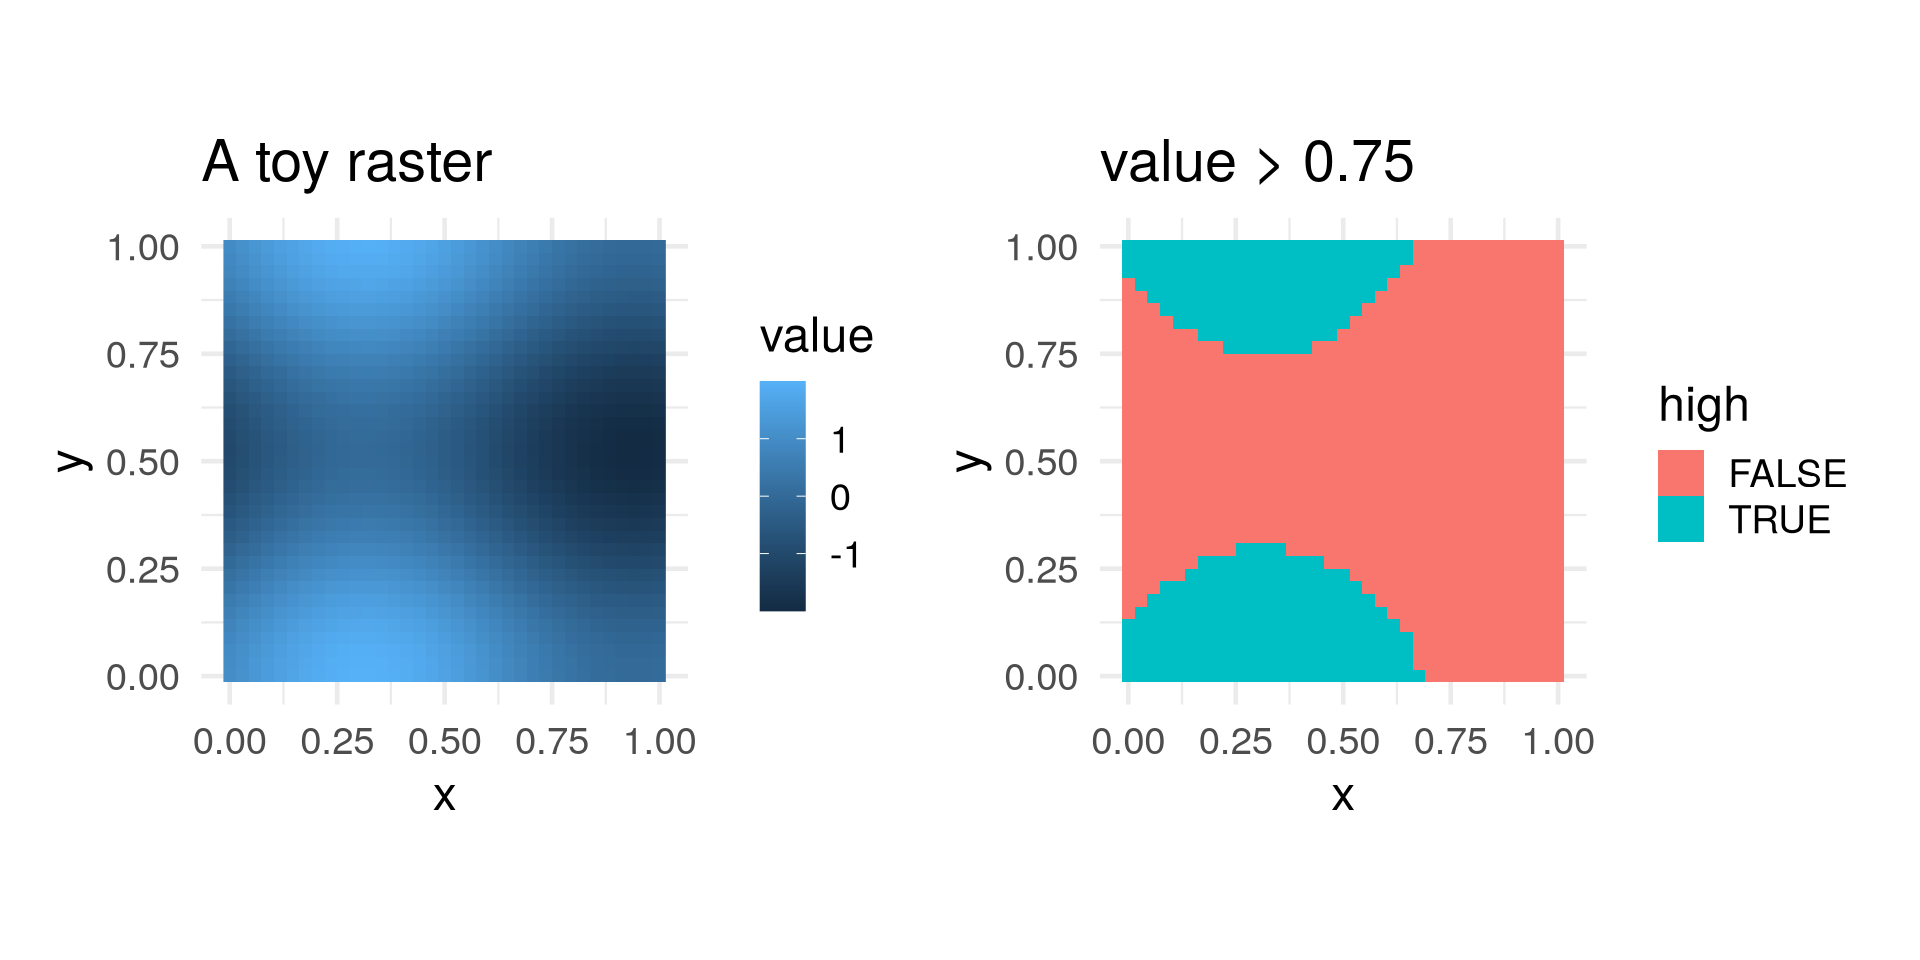
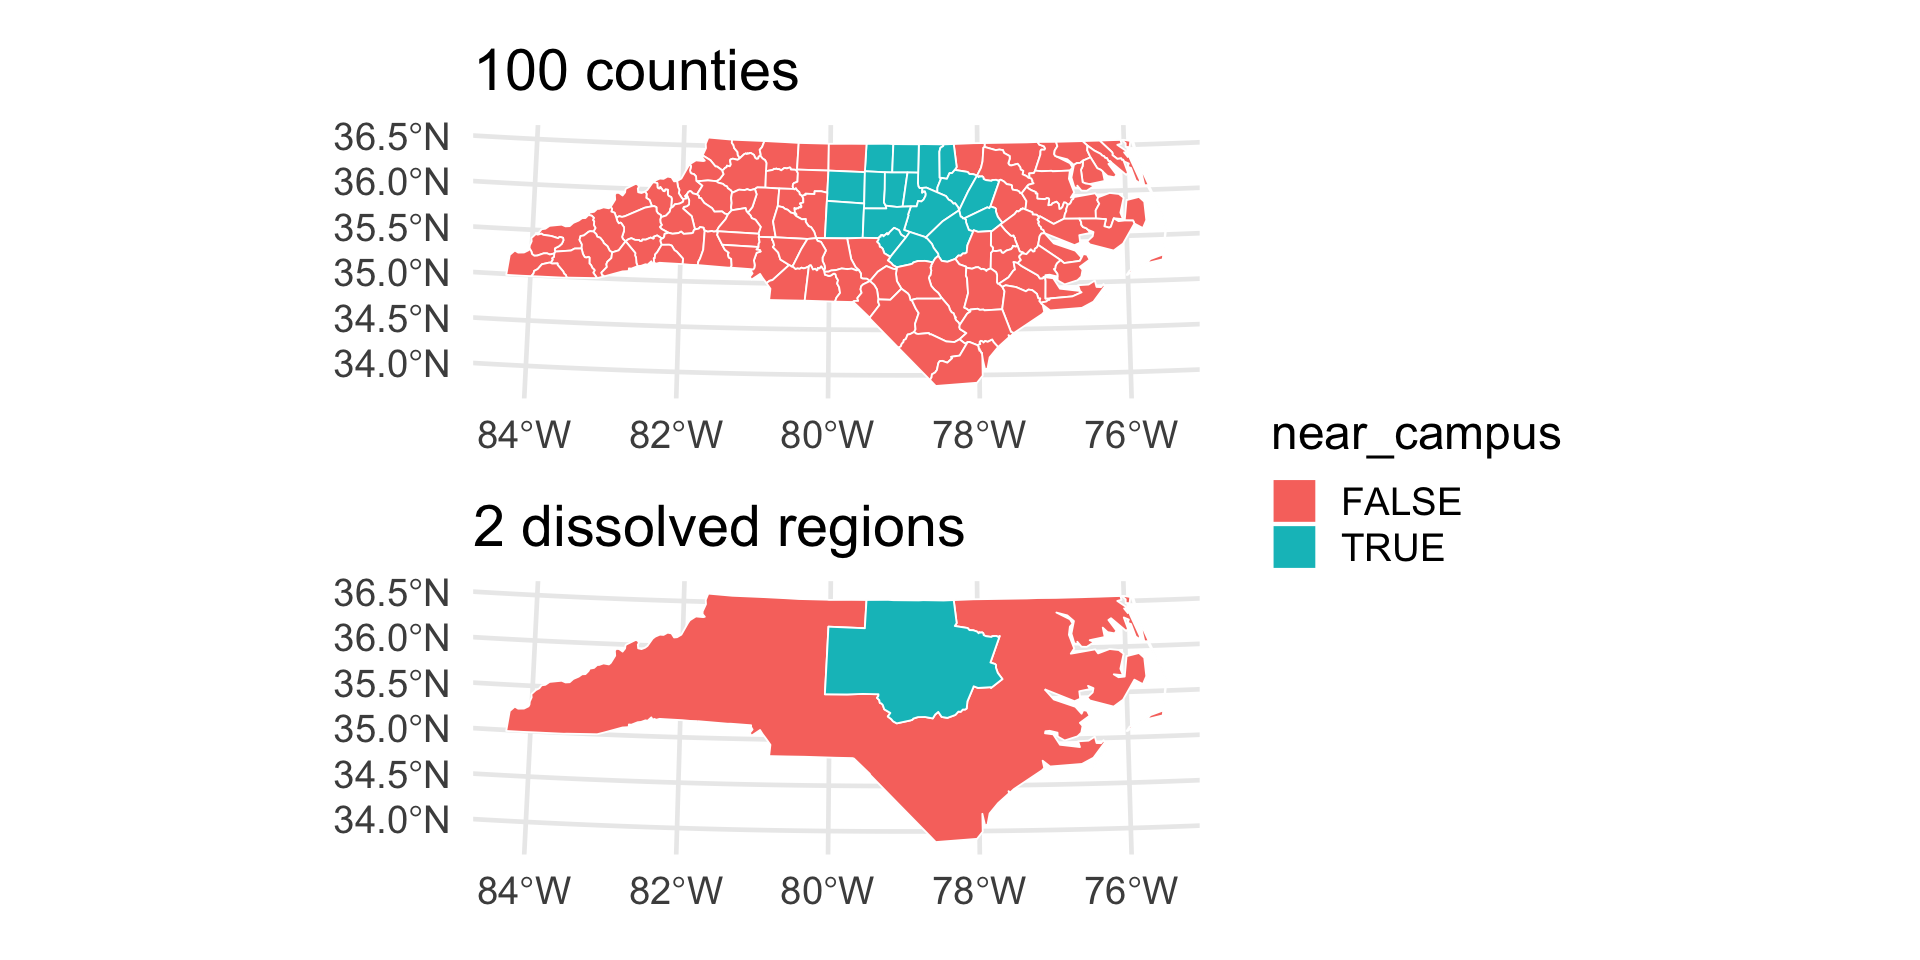
improve slides

diff --git a/docs/slides/lec-spatial-data.html b/docs/slides/lec-spatial-data.html
@@ -430,6 +430,21 @@ First 10 features:
 </section>
 <section id="mapping-an-attribute" class="slide level2">
 <h2>Mapping an attribute</h2>
+<div class="panel-tabset">
+<ul id="tabset-1" class="panel-tabset-tabby"><li><a data-tabby-default="" href="#tabset-1-1">plot</a></li><li><a href="#tabset-1-2">code</a></li></ul>
+<div class="tab-content">
+<div id="tabset-1-1">
+<div class="cell">
+<div class="cell-output-display">
+<div>
+<figure>
+<p><img data-src="lec-spatial-data_files/figure-revealjs/unnamed-chunk-4-1.png" width="960"></p>
+</figure>
+</div>
+</div>
+</div>
+</div>
+<div id="tabset-1-2">
 <div class="cell">
 <div class="sourceCode cell-code" id="cb8"><pre class="sourceCode numberSource r number-lines code-with-copy"><code class="sourceCode r"><span id="cb8-1"><a></a>nc <span class="sc">|&gt;</span></span>
 <span id="cb8-2"><a></a>  <span class="fu">mutate</span>(<span class="at">sids_rate =</span> <span class="dv">1000</span> <span class="sc">*</span> SID74 <span class="sc">/</span> BIR74) <span class="sc">|&gt;</span></span>
@@ -440,9 +455,8 @@ First 10 features:
 <span id="cb8-7"><a></a>    <span class="at">title =</span> <span class="st">"Sudden infant death syndrome (SIDS), 1974–78"</span>,</span>
 <span id="cb8-8"><a></a>    <span class="at">fill =</span> <span class="st">"deaths per</span><span class="sc">\n</span><span class="st">1,000 births"</span></span>
 <span id="cb8-9"><a></a>  )</span></code><button title="Copy to Clipboard" class="code-copy-button"><i class="bi"></i></button></pre></div>
-
 </div>
-<img data-src="lec-spatial-data_files/figure-revealjs/unnamed-chunk-4-1.png" width="960" class="r-stretch"><p>For a polygon map, <code>aes(fill = variable)</code> creates a <strong>choropleth</strong>.</p>
+<p>For a polygon map, <code>aes(fill = variable)</code> creates a <strong>choropleth</strong>.</p>
 <div class="callout callout-tip callout-titled callout-style-default">
 <div class="callout-body">
 <div class="callout-title">
@@ -453,6 +467,9 @@ First 10 features:
 </div>
 <div class="callout-content">
 <p>Map <strong>rates</strong>, not raw counts: bigger counties produce bigger counts. And beware: counties with few births have <strong>noisy</strong> rates, so the most extreme colors are often the smallest counties.</p>
+</div>
+</div>
+</div>
 </div>
 </div>
 </div>
@@ -528,7 +545,7 @@ First 10 features:
 <span id="cb15-3"><a></a>  <span class="fu">geom_sf</span>(<span class="at">data =</span> places_sf, <span class="at">size =</span> <span class="dv">4</span>)</span></code><button title="Copy to Clipboard" class="code-copy-button"><i class="bi"></i></button></pre></div>
 
 </div>
-<img data-src="lec-spatial-data_files/figure-revealjs/unnamed-chunk-8-1.png" width="960" class="r-stretch"></section>
+<img data-src="lec-spatial-data_files/figure-revealjs/unnamed-chunk-9-1.png" width="960" class="r-stretch"></section>
 <section id="the-most-common-crs-mistake" class="slide level2">
 <h2>The most common CRS mistake</h2>
 <div class="callout callout-warning callout-titled callout-style-default">
@@ -741,7 +758,7 @@ Geodetic CRS:  NAD27
 <div class="cell-output-display">
 <div>
 <figure>
-<p><img data-src="lec-spatial-data_files/figure-revealjs/unnamed-chunk-16-1.png" width="960"></p>
+<p><img data-src="lec-spatial-data_files/figure-revealjs/unnamed-chunk-17-1.png" width="960"></p>
 </figure>
 </div>
 </div>
@@ -751,20 +768,20 @@ Geodetic CRS:  NAD27
 <h2>Spatial summaries and dissolving boundaries</h2>
 <p>Which counties intersect any campus buffer? Then, <code>group_by()</code> + <code>summarize()</code> <strong>merges the shapes</strong> within each group.</p>
 <div class="panel-tabset">
-<ul id="tabset-1" class="panel-tabset-tabby"><li><a data-tabby-default="" href="#tabset-1-1">Plots</a></li><li><a href="#tabset-1-2">Code</a></li></ul>
+<ul id="tabset-2" class="panel-tabset-tabby"><li><a data-tabby-default="" href="#tabset-2-1">Plots</a></li><li><a href="#tabset-2-2">Code</a></li></ul>
 <div class="tab-content">
-<div id="tabset-1-1">
+<div id="tabset-2-1">
 <div class="cell">
 <div class="cell-output-display">
 <div>
 <figure>
-<p><img data-src="lec-spatial-data_files/figure-revealjs/unnamed-chunk-17-1.png" width="960"></p>
+<p><img data-src="lec-spatial-data_files/figure-revealjs/unnamed-chunk-18-1.png" width="960"></p>
 </figure>
 </div>
 </div>
 </div>
 </div>
-<div id="tabset-1-2">
+<div id="tabset-2-2">
 <div class="cell">
 <div class="sourceCode cell-code" id="cb26"><pre class="sourceCode numberSource r number-lines code-with-copy"><code class="sourceCode r"><span id="cb26-1"><a></a>nc_near <span class="ot">&lt;-</span> nc_projected <span class="sc">|&gt;</span></span>
 <span id="cb26-2"><a></a>  <span class="fu">mutate</span>(<span class="at">near_campus =</span> <span class="fu">lengths</span>(<span class="fu">st_intersects</span>(geometry, <span class="fu">st_union</span>(buffers))) <span class="sc">&gt;</span> <span class="dv">0</span>)</span>
@@ -777,7 +794,7 @@ Geodetic CRS:  NAD27
 <span id="cb26-9"><a></a>  <span class="fu">labs</span>(<span class="at">title =</span> <span class="st">"100 counties"</span>)</span>
 <span id="cb26-10"><a></a>p2 <span class="ot">&lt;-</span> <span class="fu">ggplot</span>(nc_dissolved) <span class="sc">+</span> <span class="fu">geom_sf</span>(<span class="fu">aes</span>(<span class="at">fill =</span> near_campus), <span class="at">color =</span> <span class="st">"white"</span>) <span class="sc">+</span></span>
 <span id="cb26-11"><a></a>  <span class="fu">labs</span>(<span class="at">title =</span> <span class="st">"2 dissolved regions"</span>)</span>
-<span id="cb26-12"><a></a>p1 <span class="sc">+</span> p2 <span class="sc">+</span> <span class="fu">plot_layout</span>(<span class="at">guides =</span> <span class="st">"collect"</span>)</span></code><button title="Copy to Clipboard" class="code-copy-button"><i class="bi"></i></button></pre></div>
+<span id="cb26-12"><a></a>p1 <span class="sc">/</span> p2 <span class="sc">+</span> <span class="fu">plot_layout</span>(<span class="at">guides =</span> <span class="st">"collect"</span>)</span></code><button title="Copy to Clipboard" class="code-copy-button"><i class="bi"></i></button></pre></div>
 </div>
 </div>
 </div>
@@ -812,20 +829,20 @@ Geodetic CRS:  NAD27
 <h2>A raster is a grid of values</h2>
 <p>Here is a toy raster: every cell gets one value. Most raster operations transform <strong>every cell at once</strong>.</p>
 <div class="panel-tabset">
-<ul id="tabset-2" class="panel-tabset-tabby"><li><a data-tabby-default="" href="#tabset-2-1">Plot</a></li><li><a href="#tabset-2-2">Code</a></li></ul>
+<ul id="tabset-3" class="panel-tabset-tabby"><li><a data-tabby-default="" href="#tabset-3-1">Plot</a></li><li><a href="#tabset-3-2">Code</a></li></ul>
 <div class="tab-content">
-<div id="tabset-2-1">
+<div id="tabset-3-1">
 <div class="cell">
 <div class="cell-output-display">
 <div>
 <figure>
-<p><img data-src="lec-spatial-data_files/figure-revealjs/unnamed-chunk-20-1.png" width="960"></p>
+<p><img data-src="lec-spatial-data_files/figure-revealjs/unnamed-chunk-21-1.png" width="960"></p>
 </figure>
 </div>
 </div>
 </div>
 </div>
-<div id="tabset-2-2">
+<div id="tabset-3-2">
 <div class="cell">
 <div class="sourceCode cell-code" id="cb28"><pre class="sourceCode numberSource r number-lines code-with-copy"><code class="sourceCode r"><span id="cb28-1"><a></a>raster_grid <span class="ot">&lt;-</span> <span class="fu">crossing</span>(</span>
 <span id="cb28-2"><a></a>  <span class="at">x =</span> <span class="fu">seq</span>(<span class="dv">0</span>, <span class="dv">1</span>, <span class="at">length.out =</span> <span class="dv">35</span>),</span>
@@ -880,15 +897,32 @@ max value   :       547 </code></pre>
 129 6.020833 50.17917       547</code></pre>
 </div>
 </div>
+<div class="panel-tabset">
+<ul id="tabset-4" class="panel-tabset-tabby"><li><a data-tabby-default="" href="#tabset-4-1">Plot</a></li><li><a href="#tabset-4-2">Code</a></li></ul>
+<div class="tab-content">
+<div id="tabset-4-1">
+<div class="cell">
+<div class="cell-output-display">
+<div>
+<figure>
+<p><img data-src="lec-spatial-data_files/figure-revealjs/unnamed-chunk-25-1.png" width="960"></p>
+</figure>
+</div>
+</div>
+</div>
+</div>
+<div id="tabset-4-2">
 <div class="cell">
 <div class="sourceCode cell-code" id="cb33"><pre class="sourceCode numberSource r number-lines code-with-copy"><code class="sourceCode r"><span id="cb33-1"><a></a><span class="fu">ggplot</span>(elev_df, <span class="fu">aes</span>(x, y, <span class="at">fill =</span> elevation)) <span class="sc">+</span></span>
 <span id="cb33-2"><a></a>  <span class="fu">geom_raster</span>() <span class="sc">+</span></span>
 <span id="cb33-3"><a></a>  <span class="fu">scale_fill_viridis_c</span>() <span class="sc">+</span></span>
 <span id="cb33-4"><a></a>  <span class="fu">coord_quickmap</span>() <span class="sc">+</span></span>
 <span id="cb33-5"><a></a>  <span class="fu">labs</span>(<span class="at">fill =</span> <span class="st">"meters"</span>)</span></code><button title="Copy to Clipboard" class="code-copy-button"><i class="bi"></i></button></pre></div>
-
 </div>
-<img data-src="lec-spatial-data_files/figure-revealjs/unnamed-chunk-24-1.png" width="960" class="r-stretch"><p>The <code>tidyterra</code> package adds <code>geom_spatraster()</code> if you’d rather skip this step.</p>
+<p>The <code>tidyterra</code> package adds <code>geom_spatraster()</code> if you’d rather skip this step.</p>
+</div>
+</div>
+</div>
 </section>
 <section id="resolution-is-a-choice-scale-matters" class="slide level2">
 <h2>Resolution is a choice: scale matters</h2>
@@ -905,26 +939,26 @@ max value   :       547 </code></pre>
 </div>
 </div>
 
-<img data-src="lec-spatial-data_files/figure-revealjs/unnamed-chunk-26-1.png" width="960" class="r-stretch"><p>Coarser cells hide local extremes. The <strong>scale</strong> you analyze at can change your answer.</p>
+<img data-src="lec-spatial-data_files/figure-revealjs/unnamed-chunk-28-1.png" width="960" class="r-stretch"><p>Coarser cells hide local extremes. The <strong>scale</strong> you analyze at can change your answer.</p>
 </section>
 <section id="vector-meets-raster" class="slide level2">
 <h2>Vector meets raster</h2>
 <p>A classic question: <strong>what is the average raster value inside each polygon?</strong></p>
 <div class="panel-tabset">
-<ul id="tabset-3" class="panel-tabset-tabby"><li><a data-tabby-default="" href="#tabset-3-1">Plot</a></li><li><a href="#tabset-3-2">Code</a></li></ul>
+<ul id="tabset-5" class="panel-tabset-tabby"><li><a data-tabby-default="" href="#tabset-5-1">Plot</a></li><li><a href="#tabset-5-2">Code</a></li></ul>
 <div class="tab-content">
-<div id="tabset-3-1">
+<div id="tabset-5-1">
 <div class="cell">
 <div class="cell-output-display">
 <div>
 <figure>
-<p><img data-src="lec-spatial-data_files/figure-revealjs/unnamed-chunk-27-1.png" width="960"></p>
+<p><img data-src="lec-spatial-data_files/figure-revealjs/unnamed-chunk-29-1.png" width="960"></p>
 </figure>
 </div>
 </div>
 </div>
 </div>
-<div id="tabset-3-2">
+<div id="tabset-5-2">
 <div class="cell">
 <div class="sourceCode cell-code" id="cb38"><pre class="sourceCode numberSource r number-lines code-with-copy"><code class="sourceCode r"><span id="cb38-1"><a></a>lux <span class="ot">&lt;-</span> <span class="fu">st_read</span>(<span class="fu">system.file</span>(<span class="st">"ex/lux.shp"</span>, <span class="at">package =</span> <span class="st">"terra"</span>), <span class="at">quiet =</span> <span class="cn">TRUE</span>)</span>
 <span id="cb38-2"><a></a></span>
@@ -937,10 +971,10 @@ max value   :       547 </code></pre>
 <span id="cb38-9"><a></a>  <span class="fu">scale_fill_viridis_c</span>() <span class="sc">+</span></span>
 <span id="cb38-10"><a></a>  <span class="fu">labs</span>(<span class="at">title =</span> <span class="st">"Average elevation by canton"</span>, <span class="at">fill =</span> <span class="st">"meters"</span>)</span></code><button title="Copy to Clipboard" class="code-copy-button"><i class="bi"></i></button></pre></div>
 </div>
-</div>
-</div>
-</div>
 <p><code>sf</code> handles the polygons, <code>terra</code> handles the grid, and <code>vect()</code> passes shapes between them. (Both layers must share a CRS; check first!)</p>
+</div>
+</div>
+</div>
 <!-- # Part 3: Spatial statistics, by simulation -->
 </section></section>
 <section>
@@ -977,8 +1011,39 @@ max value   :       547 </code></pre>
 <section id="simulation-what-does-spatial-structure-look-like" class="slide level2">
 <h2>Simulation: what does spatial structure look like?</h2>
 <p>Left: values have <strong>nothing</strong> to do with location. Right: values depend smoothly on location, plus a little noise.</p>
-
-<img data-src="lec-spatial-data_files/figure-revealjs/unnamed-chunk-29-1.png" width="960" class="r-stretch"></section>
+<div class="panel-tabset">
+<ul id="tabset-6" class="panel-tabset-tabby"><li><a data-tabby-default="" href="#tabset-6-1">Plot</a></li><li><a href="#tabset-6-2">Code</a></li></ul>
+<div class="tab-content">
+<div id="tabset-6-1">
+<div class="cell">
+<div class="cell-output-display">
+<div>
+<figure>
+<p><img data-src="lec-spatial-data_files/figure-revealjs/unnamed-chunk-31-1.png" width="960"></p>
+</figure>
+</div>
+</div>
+</div>
+</div>
+<div id="tabset-6-2">
+<div class="cell">
+<div class="sourceCode cell-code" id="cb39"><pre class="sourceCode numberSource r number-lines code-with-copy"><code class="sourceCode r"><span id="cb39-1"><a></a>n <span class="ot">&lt;-</span> <span class="dv">300</span></span>
+<span id="cb39-2"><a></a>simulation1 <span class="ot">&lt;-</span> <span class="fu">tibble</span>(<span class="at">x =</span> <span class="fu">runif</span>(n), <span class="at">y =</span> <span class="fu">runif</span>(n),</span>
+<span id="cb39-3"><a></a>                <span class="at">value =</span> <span class="fu">rnorm</span>(n))</span>
+<span id="cb39-4"><a></a>simulation2 <span class="ot">&lt;-</span> <span class="fu">tibble</span>(<span class="at">x =</span> <span class="fu">runif</span>(n), <span class="at">y =</span> <span class="fu">runif</span>(n),</span>
+<span id="cb39-5"><a></a>                 <span class="at">value =</span> <span class="fu">sin</span>(<span class="dv">3</span> <span class="sc">*</span> x) <span class="sc">+</span> <span class="fu">cos</span>(<span class="dv">4</span> <span class="sc">*</span> y) <span class="sc">+</span> <span class="fu">rnorm</span>(n, <span class="at">sd =</span> <span class="fl">0.2</span>))</span>
+<span id="cb39-6"><a></a></span>
+<span id="cb39-7"><a></a>map_points <span class="ot">&lt;-</span> <span class="cf">function</span>(df, title) {</span>
+<span id="cb39-8"><a></a>  <span class="fu">ggplot</span>(df, <span class="fu">aes</span>(x, y, <span class="at">color =</span> value)) <span class="sc">+</span></span>
+<span id="cb39-9"><a></a>    <span class="fu">geom_point</span>(<span class="at">size =</span> <span class="fl">2.5</span>) <span class="sc">+</span> <span class="fu">coord_equal</span>() <span class="sc">+</span></span>
+<span id="cb39-10"><a></a>    <span class="fu">scale_color_viridis_c</span>() <span class="sc">+</span> <span class="fu">labs</span>(<span class="at">title =</span> title)</span>
+<span id="cb39-11"><a></a>}</span>
+<span id="cb39-12"><a></a><span class="fu">map_points</span>(simulation1, <span class="st">"simulation1"</span>) <span class="sc">+</span> <span class="fu">map_points</span>(simulation2, <span class="st">"simulation2"</span>)</span></code><button title="Copy to Clipboard" class="code-copy-button"><i class="bi"></i></button></pre></div>
+</div>
+</div>
+</div>
+</div>
+</section>
 <section id="spatial-autocorrelation" class="slide level2">
 <h2>Spatial autocorrelation</h2>
 <p><strong>Spatial autocorrelation</strong> = values at nearby locations are related to one another.</p>
@@ -1003,18 +1068,18 @@ max value   :       547 </code></pre>
 <h2>“Are you like your neighbor?”</h2>
 <p>For each point, find its <strong>nearest neighbor</strong> (with <code>sf</code>!) and record the neighbor’s value. Then compute an ordinary correlation.</p>
 <div class="cell">
-<div class="sourceCode cell-code" id="cb39"><pre class="sourceCode numberSource r number-lines code-with-copy"><code class="sourceCode r"><span id="cb39-1"><a></a>add_neighbor <span class="ot">&lt;-</span> <span class="cf">function</span>(df, label) {</span>
-<span id="cb39-2"><a></a>  nn <span class="ot">&lt;-</span> <span class="fu">st_nearest_feature</span>(<span class="fu">st_as_sf</span>(df, <span class="at">coords =</span> <span class="fu">c</span>(<span class="st">"x"</span>, <span class="st">"y"</span>)))  <span class="co"># index of nearest other point</span></span>
-<span id="cb39-3"><a></a>  df <span class="sc">|&gt;</span> </span>
-<span id="cb39-4"><a></a>    <span class="fu">mutate</span>(<span class="at">neighbor_value =</span> value[nn], <span class="at">data =</span> label)</span>
-<span id="cb39-5"><a></a>}</span>
-<span id="cb39-6"><a></a></span>
-<span id="cb39-7"><a></a>nn_pairs <span class="ot">&lt;-</span> <span class="fu">bind_rows</span>(<span class="fu">add_neighbor</span>(simulation1, <span class="st">"no structure"</span>),</span>
-<span id="cb39-8"><a></a>                      <span class="fu">add_neighbor</span>(simulation2, <span class="st">"smooth"</span>))</span>
-<span id="cb39-9"><a></a></span>
-<span id="cb39-10"><a></a>nn_pairs <span class="sc">|&gt;</span></span>
-<span id="cb39-11"><a></a>  <span class="fu">group_by</span>(data) <span class="sc">|&gt;</span></span>
-<span id="cb39-12"><a></a>  <span class="fu">summarize</span>(<span class="at">r =</span> <span class="fu">cor</span>(value, neighbor_value))</span></code><button title="Copy to Clipboard" class="code-copy-button"><i class="bi"></i></button></pre></div>
+<div class="sourceCode cell-code" id="cb40"><pre class="sourceCode numberSource r number-lines code-with-copy"><code class="sourceCode r"><span id="cb40-1"><a></a>add_neighbor <span class="ot">&lt;-</span> <span class="cf">function</span>(df, label) {</span>
+<span id="cb40-2"><a></a>  nn <span class="ot">&lt;-</span> <span class="fu">st_nearest_feature</span>(<span class="fu">st_as_sf</span>(df, <span class="at">coords =</span> <span class="fu">c</span>(<span class="st">"x"</span>, <span class="st">"y"</span>)))  <span class="co"># index of nearest other point</span></span>
+<span id="cb40-3"><a></a>  df <span class="sc">|&gt;</span> </span>
+<span id="cb40-4"><a></a>    <span class="fu">mutate</span>(<span class="at">neighbor_value =</span> value[nn], <span class="at">data =</span> label)</span>
+<span id="cb40-5"><a></a>}</span>
+<span id="cb40-6"><a></a></span>
+<span id="cb40-7"><a></a>nn_pairs <span class="ot">&lt;-</span> <span class="fu">bind_rows</span>(<span class="fu">add_neighbor</span>(simulation1, <span class="st">"no structure"</span>),</span>
+<span id="cb40-8"><a></a>                      <span class="fu">add_neighbor</span>(simulation2, <span class="st">"smooth"</span>))</span>
+<span id="cb40-9"><a></a></span>
+<span id="cb40-10"><a></a>nn_pairs <span class="sc">|&gt;</span></span>
+<span id="cb40-11"><a></a>  <span class="fu">group_by</span>(data) <span class="sc">|&gt;</span></span>
+<span id="cb40-12"><a></a>  <span class="fu">summarize</span>(<span class="at">r =</span> <span class="fu">cor</span>(value, neighbor_value))</span></code><button title="Copy to Clipboard" class="code-copy-button"><i class="bi"></i></button></pre></div>
 <div class="cell-output cell-output-stdout">
 <pre><code># A tibble: 2 × 2
   data               r
